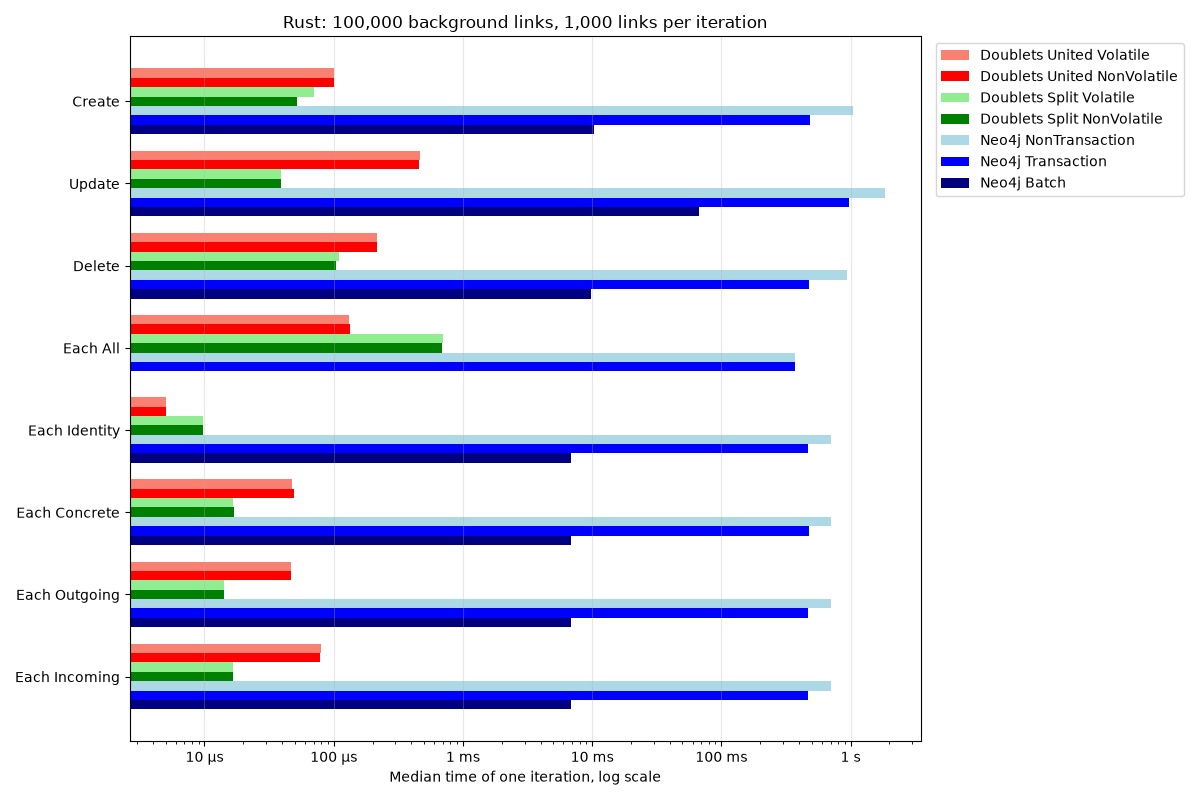
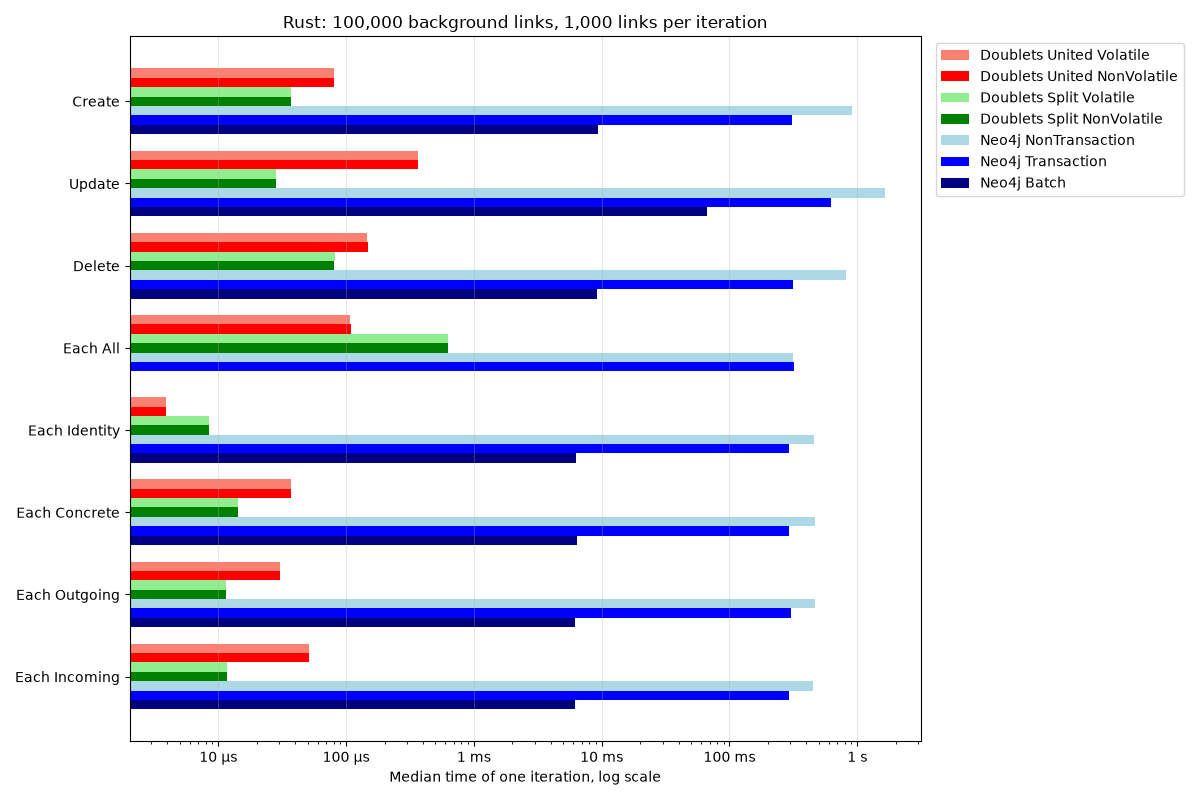
Update benchmark results

diff --git a/README.md b/README.md
@@ -156,61 +156,113 @@ code on the main branch. Every cell is the median time of one iteration
 
 #### Rust: 10,000 background links, 1,000 links per iteration
 
-_Median time of one iteration with 1,000 links. Neo4j 2026.09.0 Community through neo4rs 0.8.0; doublets 0.5.0. CPU unknown, [GitHub Actions run](https://github.com/linksplatform/Comparisons.Neo4jVSDoublets/actions/runs/37293828831) on 2026-10-05._
+_Median time of one iteration with 1,000 links. Neo4j 2026.09.0 Community through neo4rs 0.8.0; doublets 0.5.0. CPU AMD EPYC 9V74 80-Core Processor (Neo4j) and AMD EPYC 7763 64-Core Processor (Doublets), [GitHub Actions run](https://github.com/linksplatform/Comparisons.Neo4jVSDoublets/actions/runs/37524891785) on 2026-10-06._
 
 | Operation | Doublets United Volatile | Doublets United NonVolatile | Doublets Split Volatile | Doublets Split NonVolatile | Neo4j NonTransaction | Neo4j Transaction | Neo4j Batch |
 | --- | ---: | ---: | ---: | ---: | ---: | ---: | ---: |
-| Create | 79.8 µs (128× faster) | 79.2 µs (129× faster) | 51.2 µs (200× faster) | 51.4 µs (199× faster) | 838 ms | 377 ms | **10.2 ms** |
-| Update | 396 µs (162× faster) | 391 µs (164× faster) | 39.4 µs (1,630× faster) | 39.2 µs (1,640× faster) | 1.49 s | 776 ms | **64.3 ms** |
-| Delete | 180 µs (52× faster) | 179 µs (52× faster) | 105 µs (88.7× faster) | 104 µs (89.7× faster) | 757 ms | 385 ms | **9.33 ms** |
-| Each All | 13.1 µs (2,560× faster) | 13.5 µs (2,490× faster) | 69.6 µs (482× faster) | 69.3 µs (484× faster) | **33.5 ms** | 34 ms | — |
-| Each Identity | 5.02 µs (1,390× faster) | 5.01 µs (1,390× faster) | 9.71 µs (718× faster) | 9.7 µs (719× faster) | 573 ms | 375 ms | **6.97 ms** |
-| Each Concrete | 34.6 µs (203× faster) | 34.3 µs (205× faster) | 16.5 µs (425× faster) | 16.9 µs (417× faster) | 571 ms | 379 ms | **7.02 ms** |
-| Each Outgoing | 28.2 µs (231× faster) | 28.5 µs (228× faster) | 14.1 µs (463× faster) | 14.1 µs (463× faster) | 569 ms | 375 ms | **6.51 ms** |
-| Each Incoming | 67.1 µs (97.8× faster) | 64.9 µs (101× faster) | 16.5 µs (397× faster) | 16.5 µs (397× faster) | 566 ms | 372 ms | **6.56 ms** |
+| Create | 79.8 µs (120× faster) | 79.7 µs (121× faster) | 51.5 µs (187× faster) | 51.8 µs (186× faster) | 869 ms | 393 ms | **9.62 ms** |
+| Update | 396 µs (162× faster) | 390 µs (164× faster) | 39.1 µs (1,640× faster) | 39.1 µs (1,640× faster) | 1.5 s | 795 ms | **64.1 ms** |
+| Delete | 180 µs (47.1× faster) | 180 µs (47.2× faster) | 105 µs (80.6× faster) | 104 µs (81.4× faster) | 758 ms | 391 ms | **8.49 ms** |
+| Each All | 13.1 µs (2,610× faster) | 13.4 µs (2,540× faster) | 69.7 µs (489× faster) | 69.1 µs (493× faster) | **34.1 ms** | 34.5 ms | — |
+| Each Identity | 5.01 µs (1,290× faster) | 5.01 µs (1,290× faster) | 9.7 µs (669× faster) | 9.7 µs (669× faster) | 581 ms | 378 ms | **6.48 ms** |
+| Each Concrete | 34.6 µs (188× faster) | 34.3 µs (189× faster) | 16.5 µs (393× faster) | 16.9 µs (385× faster) | 585 ms | 386 ms | **6.5 ms** |
+| Each Outgoing | 28.3 µs (227× faster) | 28.5 µs (225× faster) | 14.1 µs (457× faster) | 14.1 µs (456× faster) | 579 ms | 384 ms | **6.42 ms** |
+| Each Incoming | 63.9 µs (101× faster) | 66.1 µs (97.5× faster) | 16.5 µs (390× faster) | 16.5 µs (390× faster) | 576 ms | 389 ms | **6.44 ms** |
 
 ![Rust, 10,000 background links, 1,000 links per iteration, linear scale](Docs/bench_rust_10000.png)
 ![Rust, 10,000 background links, 1,000 links per iteration, log scale](Docs/bench_rust_log_scale_10000.png)
 
 #### Rust: 100,000 background links, 1,000 links per iteration
 
-_Median time of one iteration with 1,000 links. Neo4j 2026.09.0 Community through neo4rs 0.8.0; doublets 0.5.0. CPU unknown, [GitHub Actions run](https://github.com/linksplatform/Comparisons.Neo4jVSDoublets/actions/runs/37293828831) on 2026-10-05._
+_Median time of one iteration with 1,000 links. Neo4j 2026.09.0 Community through neo4rs 0.8.0; doublets 0.5.0. CPU INTEL(R) XEON(R) PLATINUM 8573C (Neo4j) and AMD EPYC 9V74 80-Core Processor (Doublets), [GitHub Actions run](https://github.com/linksplatform/Comparisons.Neo4jVSDoublets/actions/runs/37524891785) on 2026-10-06._
 
 | Operation | Doublets United Volatile | Doublets United NonVolatile | Doublets Split Volatile | Doublets Split NonVolatile | Neo4j NonTransaction | Neo4j Transaction | Neo4j Batch |
 | --- | ---: | ---: | ---: | ---: | ---: | ---: | ---: |
-| Create | 101 µs (103× faster) | 100 µs (103× faster) | 70.5 µs (146× faster) | 51.7 µs (199× faster) | 1.04 s | 483 ms | **10.3 ms** |
-| Update | 461 µs (146× faster) | 455 µs (148× faster) | 39.2 µs (1,720× faster) | 39.2 µs (1,720× faster) | 1.84 s | 968 ms | **67.3 ms** |
-| Delete | 217 µs (45.2× faster) | 216 µs (45.2× faster) | 111 µs (88.5× faster) | 105 µs (93.3× faster) | 943 ms | 481 ms | **9.78 ms** |
-| Each All | 131 µs (2,840× faster) | 135 µs (2,760× faster) | 696 µs (534× faster) | 691 µs (537× faster) | **372 ms** | 372 ms | — |
-| Each Identity | 5.01 µs (1,380× faster) | 5.01 µs (1,380× faster) | 9.69 µs (711× faster) | 9.68 µs (712× faster) | 702 ms | 470 ms | **6.89 ms** |
-| Each Concrete | 47.4 µs (145× faster) | 49.6 µs (138× faster) | 16.5 µs (415× faster) | 16.8 µs (408× faster) | 706 ms | 478 ms | **6.87 ms** |
-| Each Outgoing | 46.4 µs (149× faster) | 46.9 µs (147× faster) | 14 µs (492× faster) | 14.1 µs (492× faster) | 705 ms | 470 ms | **6.91 ms** |
-| Each Incoming | 79.1 µs (86.5× faster) | 78.3 µs (87.3× faster) | 16.5 µs (414× faster) | 16.5 µs (413× faster) | 703 ms | 467 ms | **6.84 ms** |
+| Create | 80.8 µs (116× faster) | 80.8 µs (116× faster) | 37.3 µs (251× faster) | 37.3 µs (251× faster) | 911 ms | 307 ms | **9.38 ms** |
+| Update | 365 µs (184× faster) | 363 µs (185× faster) | 28.5 µs (2,350× faster) | 28.4 µs (2,360× faster) | 1.64 s | 626 ms | **67.1 ms** |
+| Delete | 146 µs (62.9× faster) | 149 µs (61.9× faster) | 81.3 µs (113× faster) | 80.6 µs (114× faster) | 822 ms | 312 ms | **9.19 ms** |
+| Each All | 108 µs (2,930× faster) | 110 µs (2,870× faster) | 630 µs (501× faster) | 630 µs (502× faster) | **316 ms** | 322 ms | — |
+| Each Identity | 3.88 µs (1,620× faster) | 3.88 µs (1,620× faster) | 8.49 µs (740× faster) | 8.49 µs (740× faster) | 461 ms | 290 ms | **6.28 ms** |
+| Each Concrete | 37.1 µs (172× faster) | 37.2 µs (172× faster) | 14.3 µs (448× faster) | 14.3 µs (448× faster) | 466 ms | 294 ms | **6.39 ms** |
+| Each Outgoing | 30.4 µs (204× faster) | 30.5 µs (204× faster) | 11.5 µs (538× faster) | 11.5 µs (538× faster) | 469 ms | 303 ms | **6.21 ms** |
+| Each Incoming | 51.2 µs (122× faster) | 51.6 µs (121× faster) | 11.8 µs (530× faster) | 11.8 µs (530× faster) | 454 ms | 293 ms | **6.24 ms** |
 
 ![Rust, 100,000 background links, 1,000 links per iteration, linear scale](Docs/bench_rust_100000.png)
 ![Rust, 100,000 background links, 1,000 links per iteration, log scale](Docs/bench_rust_log_scale_100000.png)
 
 #### Rust: 1,000,000 background links, 1,000 links per iteration
 
-_Median time of one iteration with 1,000 links. Neo4j 2026.09.0 Community through neo4rs 0.8.0; doublets 0.5.0. CPU unknown, [GitHub Actions run](https://github.com/linksplatform/Comparisons.Neo4jVSDoublets/actions/runs/37293828831) on 2026-10-05._
+_Median time of one iteration with 1,000 links. Neo4j 2026.09.0 Community through neo4rs 0.8.0; doublets 0.5.0. CPU AMD EPYC 7763 64-Core Processor, [GitHub Actions run](https://github.com/linksplatform/Comparisons.Neo4jVSDoublets/actions/runs/37524891785) on 2026-10-06._
 
 | Operation | Doublets United Volatile | Doublets United NonVolatile | Doublets Split Volatile | Doublets Split NonVolatile | Neo4j NonTransaction | Neo4j Transaction | Neo4j Batch |
 | --- | ---: | ---: | ---: | ---: | ---: | ---: | ---: |
-| Create | 116 µs (45.6× faster) | 120 µs (44.2× faster) | 28.6 µs (185× faster) | 30.4 µs (174× faster) | 580 ms | 197 ms | **5.3 ms** |
-| Update | 453 µs (125× faster) | 451 µs (126× faster) | 22.2 µs (2,550× faster) | 23.6 µs (2,400× faster) | 990 ms | 411 ms | **56.7 ms** |
-| Delete | 202 µs (26.5× faster) | 200 µs (26.7× faster) | 67.1 µs (79.7× faster) | 68.9 µs (77.5× faster) | 462 ms | 203 ms | **5.34 ms** |
-| Each All | 2.16 ms (908× faster) | 2.16 ms (906× faster) | 5.81 ms (337× faster) | 5.55 ms (353× faster) | **1.96 s** | 2.04 s | — |
-| Each Identity | 3.14 µs (1,230× faster) | 3.15 µs (1,230× faster) | 7.25 µs (535× faster) | 7.5 µs (517× faster) | 292 ms | 191 ms | **3.88 ms** |
-| Each Concrete | 53.4 µs (72.9× faster) | 58.6 µs (66.5× faster) | 11.8 µs (330× faster) | 11.8 µs (330× faster) | 309 ms | 191 ms | **3.89 ms** |
-| Each Outgoing | 68.6 µs (54.5× faster) | 68.5 µs (54.6× faster) | 10.6 µs (351× faster) | 10.4 µs (360× faster) | 291 ms | 188 ms | **3.74 ms** |
-| Each Incoming | 90.8 µs (42.7× faster) | 91.2 µs (42.5× faster) | 10.9 µs (357× faster) | 10.6 µs (366× faster) | 288 ms | 192 ms | **3.88 ms** |
+| Create | 113 µs (87.6× faster) | 113 µs (88× faster) | 51.1 µs (194× faster) | 51.5 µs (193× faster) | 978 ms | 476 ms | **9.94 ms** |
+| Update | 520 µs (129× faster) | 511 µs (132× faster) | 39.2 µs (1,710× faster) | 39.2 µs (1,720× faster) | 1.71 s | 958 ms | **67.2 ms** |
+| Delete | 250 µs (37.8× faster) | 248 µs (38.1× faster) | 105 µs (89.5× faster) | 106 µs (89.3× faster) | 922 ms | 480 ms | **9.44 ms** |
+| Each All | 2.67 ms (1,360× faster) | 2.97 ms (1,220× faster) | 7.05 ms (513× faster) | 7.12 ms (508× faster) | **3.62 s** | 3.65 s | — |
+| Each Identity | 5.01 µs (1,470× faster) | 5.01 µs (1,470× faster) | 9.7 µs (760× faster) | 9.69 µs (761× faster) | 707 ms | 468 ms | **7.37 ms** |
+| Each Concrete | 53.9 µs (130× faster) | 59.2 µs (118× faster) | 16.5 µs (424× faster) | 17.2 µs (408× faster) | 707 ms | 470 ms | **7.01 ms** |
+| Each Outgoing | 59.9 µs (116× faster) | 60.2 µs (115× faster) | 14.1 µs (492× faster) | 14.1 µs (492× faster) | 694 ms | 466 ms | **6.92 ms** |
+| Each Incoming | 107 µs (65.2× faster) | 105 µs (66.2× faster) | 16.5 µs (421× faster) | 16.5 µs (421× faster) | 693 ms | 464 ms | **6.96 ms** |
 
 ![Rust, 1,000,000 background links, 1,000 links per iteration, linear scale](Docs/bench_rust_1000000.png)
 ![Rust, 1,000,000 background links, 1,000 links per iteration, log scale](Docs/bench_rust_log_scale_1000000.png)
 
 ### C#
 
-_No results yet._
+#### C#: 10,000 background links, 1,000 links per iteration
+
+_Median time of one iteration with 1,000 links. Neo4j 2026.09.0 Community through Neo4j.Driver 6.3.0; Platform.Data.Doublets 0.18.1. CPU AMD EPYC 9V74 80-Core Processor (Neo4j) and AMD EPYC 7763 64-Core Processor (Doublets), [GitHub Actions run](https://github.com/linksplatform/Comparisons.Neo4jVSDoublets/actions/runs/37524891785) on 2026-10-06._
+
+| Operation | Doublets United Volatile | Doublets United NonVolatile | Doublets Split Volatile | Doublets Split NonVolatile | Neo4j NonTransaction | Neo4j Transaction | Neo4j Batch |
+| --- | ---: | ---: | ---: | ---: | ---: | ---: | ---: |
+| Create | 660 µs (14× faster) | 638 µs (14.5× faster) | 195 µs (47.4× faster) | 180 µs (51.2× faster) | 1.24 s | 334 ms | **9.23 ms** |
+| Update | 1.02 ms (20.5× faster) | 1.01 ms (20.7× faster) | 126 µs (166× faster) | 126 µs (166× faster) | 1.79 s | 714 ms | **20.9 ms** |
+| Delete | 288 µs (31.7× faster) | 289 µs (31.7× faster) | 154 µs (59.4× faster) | 164 µs (55.8× faster) | 1.31 s | 354 ms | **9.14 ms** |
+| Each All | 190 µs (106× faster) | 191 µs (106× faster) | 169 µs (119× faster) | 170 µs (119× faster) | **20.2 ms** | 20.7 ms | — |
+| Each Identity | 36.5 µs (118× faster) | 36.4 µs (118× faster) | 56.5 µs (76.1× faster) | 56.4 µs (76.3× faster) | 524 ms | 335 ms | **4.3 ms** |
+| Each Concrete | 67.1 µs (65.1× faster) | 73.8 µs (59.2× faster) | 60.4 µs (72.3× faster) | 60.4 µs (72.3× faster) | 1.45 s | 334 ms | **4.37 ms** |
+| Each Outgoing | 101 µs (42.2× faster) | 98.8 µs (43× faster) | 60.6 µs (70.1× faster) | 59.8 µs (71× faster) | 522 ms | 333 ms | **4.25 ms** |
+| Each Incoming | 154 µs (27.4× faster) | 152 µs (27.6× faster) | 62.2 µs (67.7× faster) | 61.2 µs (68.8× faster) | 521 ms | 336 ms | **4.21 ms** |
+
+![C#, 10,000 background links, 1,000 links per iteration, linear scale](Docs/bench_csharp_10000.png)
+![C#, 10,000 background links, 1,000 links per iteration, log scale](Docs/bench_csharp_log_scale_10000.png)
+
+#### C#: 100,000 background links, 1,000 links per iteration
+
+_Median time of one iteration with 1,000 links. Neo4j 2026.09.0 Community through Neo4j.Driver 6.3.0; Platform.Data.Doublets 0.18.1. CPU AMD EPYC 7763 64-Core Processor (Neo4j) and AMD EPYC 9V45 96-Core Processor (Doublets), [GitHub Actions run](https://github.com/linksplatform/Comparisons.Neo4jVSDoublets/actions/runs/37524891785) on 2026-10-06._
+
+| Operation | Doublets United Volatile | Doublets United NonVolatile | Doublets Split Volatile | Doublets Split NonVolatile | Neo4j NonTransaction | Neo4j Transaction | Neo4j Batch |
+| --- | ---: | ---: | ---: | ---: | ---: | ---: | ---: |
+| Create | 419 µs (24.2× faster) | 411 µs (24.7× faster) | 75.5 µs (134× faster) | 84.4 µs (120× faster) | 1.12 s | 472 ms | **10.1 ms** |
+| Update | 628 µs (41.4× faster) | 631 µs (41.2× faster) | 74.2 µs (351× faster) | 75.2 µs (346× faster) | 1.97 s | 1.02 s | **26 ms** |
+| Delete | 219 µs (46.3× faster) | 224 µs (45.3× faster) | 82.6 µs (122× faster) | 91.3 µs (111× faster) | 1.01 s | 504 ms | **10.1 ms** |
+| Each All | 1.36 ms (188× faster) | 1.33 ms (191× faster) | 1.12 ms (228× faster) | 1.09 ms (233× faster) | **255 ms** | 263 ms | — |
+| Each Identity | 23.8 µs (248× faster) | 24.1 µs (245× faster) | 35.9 µs (164× faster) | 35.3 µs (167× faster) | 790 ms | 481 ms | **5.9 ms** |
+| Each Concrete | 76 µs (74.8× faster) | 83.2 µs (68.3× faster) | 37.6 µs (151× faster) | 38 µs (150× faster) | 790 ms | 482 ms | **5.69 ms** |
+| Each Outgoing | 87.8 µs (63.8× faster) | 84.6 µs (66.2× faster) | 37.9 µs (148× faster) | 38.3 µs (146× faster) | 776 ms | 479 ms | **5.6 ms** |
+| Each Incoming | 140 µs (40.6× faster) | 130 µs (43.6× faster) | 38.1 µs (149× faster) | 38.6 µs (146× faster) | 771 ms | 476 ms | **5.66 ms** |
+
+![C#, 100,000 background links, 1,000 links per iteration, linear scale](Docs/bench_csharp_100000.png)
+![C#, 100,000 background links, 1,000 links per iteration, log scale](Docs/bench_csharp_log_scale_100000.png)
+
+#### C#: 1,000,000 background links, 1,000 links per iteration
+
+_Median time of one iteration with 1,000 links. Neo4j 2026.09.0 Community through Neo4j.Driver 6.3.0; Platform.Data.Doublets 0.18.1. CPU Intel(R) Xeon(R) Platinum 8370C CPU @ 2.80GHz (Neo4j) and AMD EPYC 7763 64-Core Processor (Doublets), [GitHub Actions run](https://github.com/linksplatform/Comparisons.Neo4jVSDoublets/actions/runs/37524891785) on 2026-10-06._
+
+| Operation | Doublets United Volatile | Doublets United NonVolatile | Doublets Split Volatile | Doublets Split NonVolatile | Neo4j NonTransaction | Neo4j Transaction | Neo4j Batch |
+| --- | ---: | ---: | ---: | ---: | ---: | ---: | ---: |
+| Create | 913 µs (11.6× faster) | 935 µs (11.3× faster) | 177 µs (60× faster) | 195 µs (54.3× faster) | 967 ms | 368 ms | **10.6 ms** |
+| Update | 1.32 ms (23.2× faster) | 1.32 ms (23.3× faster) | 130 µs (236× faster) | 128 µs (240× faster) | 1.73 s | 830 ms | **30.7 ms** |
+| Delete | 462 µs (21.8× faster) | 470 µs (21.4× faster) | 165 µs (61.2× faster) | 190 µs (53.2× faster) | 841 ms | 390 ms | **10.1 ms** |
+| Each All | 22.4 ms (124× faster) | 22 ms (126× faster) | 18.4 ms (150× faster) | 19.3 ms (144× faster) | 2.8 s | **2.77 s** | — |
+| Each Identity | 44.7 µs (147× faster) | 41.9 µs (157× faster) | 61.8 µs (106× faster) | 64.1 µs (103× faster) | 604 ms | 365 ms | **6.57 ms** |
+| Each Concrete | 142 µs (46.2× faster) | 145 µs (45.2× faster) | 68.9 µs (95.5× faster) | 69.8 µs (94.2× faster) | 618 ms | 369 ms | **6.58 ms** |
+| Each Outgoing | 167 µs (36.9× faster) | 162 µs (38.1× faster) | 70.7 µs (87.3× faster) | 70.4 µs (87.6× faster) | 602 ms | 369 ms | **6.17 ms** |
+| Each Incoming | 208 µs (29.7× faster) | 217 µs (28.6× faster) | 71.2 µs (87× faster) | 71.7 µs (86.4× faster) | 584 ms | 380 ms | **6.19 ms** |
+
+![C#, 1,000,000 background links, 1,000 links per iteration, linear scale](Docs/bench_csharp_1000000.png)
+![C#, 1,000,000 background links, 1,000 links per iteration, log scale](Docs/bench_csharp_log_scale_1000000.png)
 
 <!-- markdownlint-restore -->
 <!-- results:end -->
